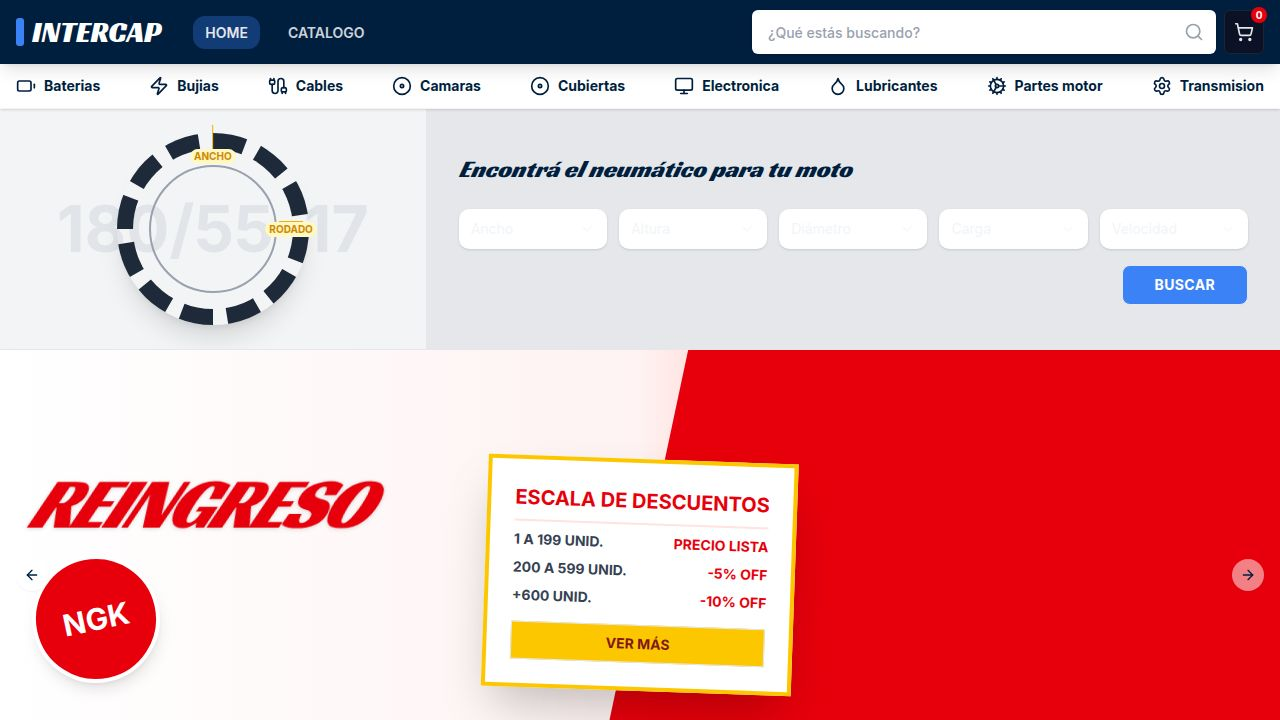
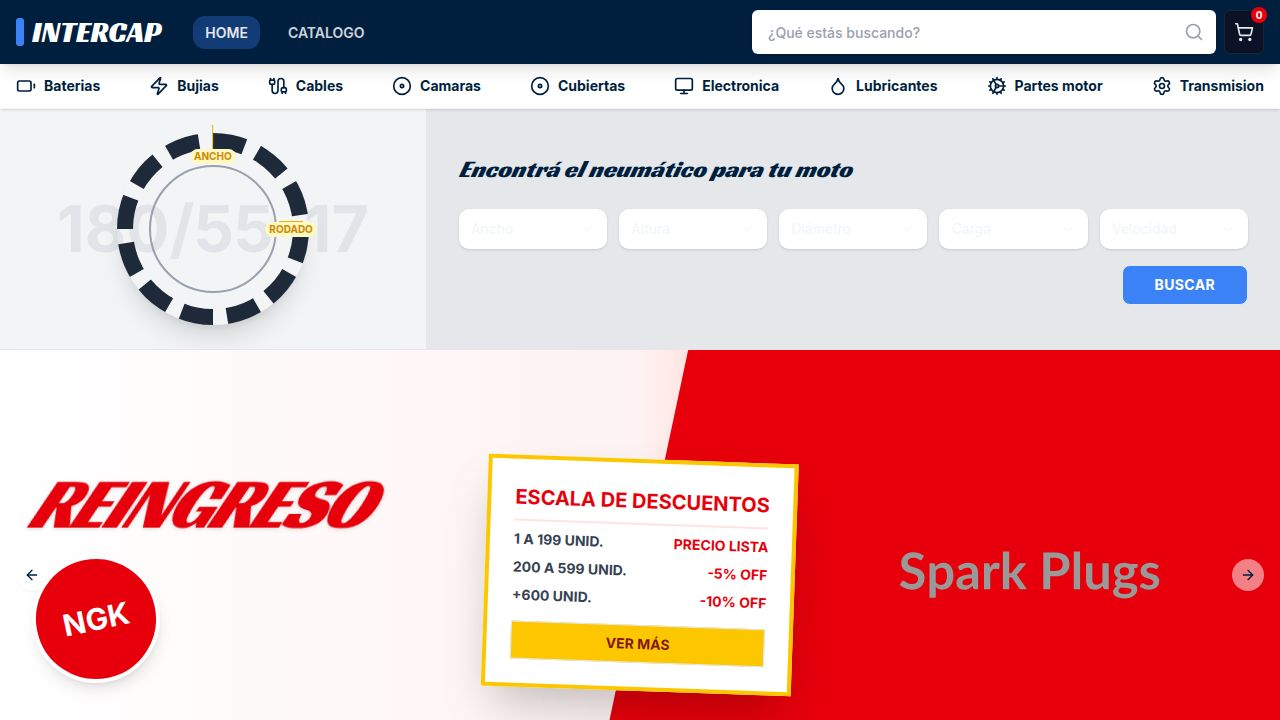
Update filter sidebar appearance and behavior for product catalog
Refactors the `FilterSidebar` component to align with new UI/UX requirements, including conditional rendering of attribute filters, default expansion of category filters, and updated styling for a cleaner, more intuitive user experience.

Replit-Commit-Author: Agent
Replit-Commit-Session-Id: 692893c5-8877-4f05-85e1-bfd36a8c08d7
Replit-Commit-Checkpoint-Type: full_checkpoint
Replit-Commit-Event-Id: 6ee007c5-415e-4534-bc1e-a87118cdcfa3
Replit-Commit-Screenshot-Url: https://storage.googleapis.com/screenshot-production-us-central1/5ba6c124-accc-4db5-b22c-435805b54b3a/692893c5-8877-4f05-85e1-bfd36a8c08d7/xhE15I8
Replit-Helium-Checkpoint-Created: true

Changed region(s): [[0.6875, 0.7639, 0.9062, 0.825]]

diff --git a/client/src/components/product/FilterSidebar.tsx b/client/src/components/product/FilterSidebar.tsx
@@ -38,6 +38,11 @@ export function FilterSidebar({ selectedFilters, onFilterChange }: FilterSidebar
   };
 
   const selectedCategories = selectedFilters.categoria || [];
+  const selectedMarcas = selectedFilters.marca || [];
+  const selectedSubtipos = selectedFilters.subtipo || [];
+
+  // Show attributes only if brand, type or subtype is selected
+  const showAttributes = selectedMarcas.length > 0 || selectedCategories.length > 0 || selectedSubtipos.length > 0;
   
   const availableSubtipos = useMemo(() => {
     return getSubtiposForCategories(selectedCategories);
@@ -71,7 +76,6 @@ export function FilterSidebar({ selectedFilters, onFilterChange }: FilterSidebar
     );
   }, [marcaSearch, availableMarcas]);
 
-  // Aggregate all attributes across categories
   const allAttributes = useMemo(() => {
     const attrs: Record<string, { label: string, values: any[] }> = {};
     Object.values(ATTRIBUTE_SCHEMA_BY_CATEGORY).forEach(schema => {
@@ -101,11 +105,11 @@ export function FilterSidebar({ selectedFilters, onFilterChange }: FilterSidebar
   };
 
   return (
-    <div className="flex flex-col gap-0 select-none">
-      <div className="flex justify-between items-center bg-[#0b1226] p-3 rounded-t-md border-b border-white/10">
-        <h2 className="font-black text-white text-sm uppercase italic tracking-tighter">Filtros</h2>
+    <div className="flex flex-col gap-0 select-none bg-[#001536] min-h-full">
+      <div className="flex justify-between items-center bg-[#001536] p-4 border-b border-white/5">
+        <h2 className="font-black text-white text-base uppercase tracking-tight">Filtros</h2>
         <button 
-          className="text-[10px] font-bold text-[#0066ff] uppercase hover:underline"
+          className="text-[10px] font-bold text-[#006ad8] uppercase hover:underline"
           onClick={() => onFilterChange({})}
         >
           Limpiar
@@ -113,13 +117,13 @@ export function FilterSidebar({ selectedFilters, onFilterChange }: FilterSidebar
       </div>
       
       <div className="space-y-0">
-        {/* ESTADO Section */}
-        <Accordion type="single" collapsible defaultValue="estado" className="w-full">
+        {/* ESTADO Section - Default Open */}
+        <Accordion type="multiple" defaultValue={["estado", "marcas", "tipos", "subtipos"]} className="w-full">
           <AccordionItem value="estado" className="border-none">
-            <AccordionTrigger className="bg-[#0b1226] hover:no-underline px-4 py-3 text-[11px] font-black text-white uppercase italic border-b border-white/10 [&[data-state=open]>svg]:rotate-180">
+            <AccordionTrigger className="bg-[#001536] hover:no-underline px-4 py-4 text-[11px] font-black text-[#006ad8] uppercase border-b border-white/5 [&[data-state=open]>svg]:rotate-180">
               ESTADO
             </AccordionTrigger>
-            <AccordionContent className="bg-[#1a233a] p-4 pb-6 space-y-3">
+            <AccordionContent className="bg-[#001f3f] p-4 pb-6 space-y-4">
               {[
                 { id: 'isHot', label: 'Ofertas' },
                 { id: 'isNew', label: 'Novedades' },
@@ -127,51 +131,46 @@ export function FilterSidebar({ selectedFilters, onFilterChange }: FilterSidebar
                 { id: 'var', label: 'Variación de precio' }
               ].map((item) => (
                 <div key={item.id} className="flex items-center space-x-3 group cursor-pointer">
-                  <div className="relative flex items-center">
-                    <Checkbox 
-                      id={`state-${item.id}`} 
-                      checked={isChecked('state', item.id)}
-                      onCheckedChange={(checked) => handleCheckboxChange('state', item.id, checked as boolean)}
-                      className="w-4 h-4 border-white/30 data-[state=checked]:bg-[#00d1b2] data-[state=checked]:border-[#00d1b2] rounded-full"
-                    />
-                  </div>
-                  <Label htmlFor={`state-${item.id}`} className="text-xs font-bold text-gray-400 group-hover:text-white cursor-pointer uppercase tracking-wide">
+                  <Checkbox 
+                    id={`state-${item.id}`} 
+                    checked={isChecked('state', item.id)}
+                    onCheckedChange={(checked) => handleCheckboxChange('state', item.id, checked as boolean)}
+                    className="w-5 h-5 border-white/20 data-[state=checked]:bg-[#006ad8] data-[state=checked]:border-[#006ad8] rounded-full"
+                  />
+                  <Label htmlFor={`state-${item.id}`} className="text-xs font-bold text-gray-300 group-hover:text-white cursor-pointer uppercase tracking-wider">
                     {item.label}
                   </Label>
                 </div>
               ))}
             </AccordionContent>
           </AccordionItem>
-        </Accordion>
 
-        {/* MARCAS Section */}
-        <Accordion type="single" collapsible className="w-full">
           <AccordionItem value="marcas" className="border-none">
-            <AccordionTrigger className="bg-[#0b1226] hover:no-underline px-4 py-3 text-[11px] font-black text-white uppercase italic border-b border-white/10 [&[data-state=open]>svg]:rotate-180">
+            <AccordionTrigger className="bg-[#001536] hover:no-underline px-4 py-4 text-[11px] font-black text-[#006ad8] uppercase border-b border-white/5 [&[data-state=open]>svg]:rotate-180">
               <div className="flex items-center gap-2">
                 MARCAS
-                {selectedFilters.marca?.length > 0 && <span className="bg-[#0066ff] text-white rounded-full w-4 h-4 flex items-center justify-center text-[9px] font-bold">{selectedFilters.marca.length}</span>}
+                {selectedMarcas.length > 0 && <span className="bg-[#006ad8] text-white rounded-full w-4 h-4 flex items-center justify-center text-[9px] font-bold">{selectedMarcas.length}</span>}
               </div>
             </AccordionTrigger>
-            <AccordionContent className="bg-[#1a233a] p-0">
-              <div className="p-3">
-                <div className="relative mb-2">
-                  <Search className="absolute left-2 top-1/2 -translate-y-1/2 w-3 h-3 text-gray-500" />
+            <AccordionContent className="bg-[#001f3f] p-0">
+              <div className="p-4">
+                <div className="relative mb-3">
+                  <Search className="absolute left-3 top-1/2 -translate-y-1/2 w-3.5 h-3.5 text-gray-500" />
                   <Input
                     placeholder="Buscar Marcas"
                     value={marcaSearch}
                     onChange={(e) => setMarcaSearch(e.target.value)}
-                    className="pl-7 h-8 bg-[#0b1226] border-white/10 text-white text-xs placeholder:text-gray-600"
+                    className="pl-9 h-9 bg-[#001536] border-white/10 text-white text-xs placeholder:text-gray-600 rounded-sm"
                   />
                 </div>
-                <div className="space-y-2 max-h-[250px] overflow-y-auto custom-scrollbar pr-2">
+                <div className="space-y-3 max-h-[300px] overflow-y-auto custom-scrollbar pr-2">
                   {filteredMarcas.map((marca) => (
                     <div key={marca.id} className="flex items-center space-x-3 group">
                       <Checkbox 
                         id={`marca-${marca.id}`} 
                         checked={isChecked('marca', marca.id)}
                         onCheckedChange={(checked) => handleCheckboxChange('marca', marca.id, checked as boolean)}
-                        className="w-4 h-4 border-white/30 data-[state=checked]:bg-[#00d1b2] rounded-full"
+                        className="w-5 h-5 border-white/20 data-[state=checked]:bg-[#006ad8] rounded-full"
                       />
                       <Label htmlFor={`marca-${marca.id}`} className="text-xs font-bold text-gray-400 group-hover:text-white cursor-pointer uppercase">
                         {marca.nombre}
@@ -182,36 +181,33 @@ export function FilterSidebar({ selectedFilters, onFilterChange }: FilterSidebar
               </div>
             </AccordionContent>
           </AccordionItem>
-        </Accordion>
 
-        {/* TIPOS DE PRODUCTO (CATEGORÍA) Section */}
-        <Accordion type="single" collapsible className="w-full">
           <AccordionItem value="tipos" className="border-none">
-            <AccordionTrigger className="bg-[#0b1226] hover:no-underline px-4 py-3 text-[11px] font-black text-white uppercase italic border-b border-white/10 [&[data-state=open]>svg]:rotate-180">
+            <AccordionTrigger className="bg-[#001536] hover:no-underline px-4 py-4 text-[11px] font-black text-[#006ad8] uppercase border-b border-white/5 [&[data-state=open]>svg]:rotate-180">
               <div className="flex items-center gap-2">
                 TIPOS DE PRODUCTO
-                {selectedCategories.length > 0 && <span className="bg-[#0066ff] text-white rounded-full w-4 h-4 flex items-center justify-center text-[9px] font-bold">{selectedCategories.length}</span>}
+                {selectedCategories.length > 0 && <span className="bg-[#006ad8] text-white rounded-full w-4 h-4 flex items-center justify-center text-[9px] font-bold">{selectedCategories.length}</span>}
               </div>
             </AccordionTrigger>
-            <AccordionContent className="bg-[#1a233a] p-0">
-              <div className="p-3">
-                <div className="relative mb-2">
-                  <Search className="absolute left-2 top-1/2 -translate-y-1/2 w-3 h-3 text-gray-500" />
+            <AccordionContent className="bg-[#001f3f] p-0">
+              <div className="p-4">
+                <div className="relative mb-3">
+                  <Search className="absolute left-3 top-1/2 -translate-y-1/2 w-3.5 h-3.5 text-gray-500" />
                   <Input
                     placeholder="Buscar Tipo Producto"
                     value={categorySearch}
                     onChange={(e) => setCategorySearch(e.target.value)}
-                    className="pl-7 h-8 bg-[#0b1226] border-white/10 text-white text-xs placeholder:text-gray-600"
+                    className="pl-9 h-9 bg-[#001536] border-white/10 text-white text-xs placeholder:text-gray-600 rounded-sm"
                   />
                 </div>
-                <div className="space-y-2 max-h-[250px] overflow-y-auto custom-scrollbar pr-2">
+                <div className="space-y-3 max-h-[300px] overflow-y-auto custom-scrollbar pr-2">
                   {filteredCategories.map((cat) => (
                     <div key={cat.id} className="flex items-center space-x-3 group">
                       <Checkbox 
                         id={`cat-${cat.id}`} 
                         checked={isChecked('categoria', cat.id)}
                         onCheckedChange={(checked) => handleCheckboxChange('categoria', cat.id, checked as boolean)}
-                        className="w-4 h-4 border-white/30 data-[state=checked]:bg-[#00d1b2] rounded-full"
+                        className="w-5 h-5 border-white/20 data-[state=checked]:bg-[#006ad8] rounded-full"
                       />
                       <Label htmlFor={`cat-${cat.id}`} className="text-xs font-bold text-gray-400 group-hover:text-white cursor-pointer uppercase">
                         {cat.nombre}
@@ -222,36 +218,33 @@ export function FilterSidebar({ selectedFilters, onFilterChange }: FilterSidebar
               </div>
             </AccordionContent>
           </AccordionItem>
-        </Accordion>
 
-        {/* SUBTIPOS Section */}
-        <Accordion type="single" collapsible className="w-full">
           <AccordionItem value="subtipos" className="border-none">
-            <AccordionTrigger className="bg-[#0b1226] hover:no-underline px-4 py-3 text-[11px] font-black text-white uppercase italic border-b border-white/10 [&[data-state=open]>svg]:rotate-180">
+            <AccordionTrigger className="bg-[#001536] hover:no-underline px-4 py-4 text-[11px] font-black text-[#006ad8] uppercase border-b border-white/5 [&[data-state=open]>svg]:rotate-180">
               <div className="flex items-center gap-2">
                 SUBTIPOS
-                {selectedFilters.subtipo?.length > 0 && <span className="bg-[#0066ff] text-white rounded-full w-4 h-4 flex items-center justify-center text-[9px] font-bold">{selectedFilters.subtipo.length}</span>}
+                {selectedSubtipos.length > 0 && <span className="bg-[#006ad8] text-white rounded-full w-4 h-4 flex items-center justify-center text-[9px] font-bold">{selectedSubtipos.length}</span>}
               </div>
             </AccordionTrigger>
-            <AccordionContent className="bg-[#1a233a] p-0">
-              <div className="p-3">
-                <div className="relative mb-2">
-                  <Search className="absolute left-2 top-1/2 -translate-y-1/2 w-3 h-3 text-gray-500" />
+            <AccordionContent className="bg-[#001f3f] p-0">
+              <div className="p-4">
+                <div className="relative mb-3">
+                  <Search className="absolute left-3 top-1/2 -translate-y-1/2 w-3.5 h-3.5 text-gray-500" />
                   <Input
                     placeholder="Buscar Subtipo"
                     value={subtipoSearch}
                     onChange={(e) => setSubtipoSearch(e.target.value)}
-                    className="pl-7 h-8 bg-[#0b1226] border-white/10 text-white text-xs placeholder:text-gray-600"
+                    className="pl-9 h-9 bg-[#001536] border-white/10 text-white text-xs placeholder:text-gray-600 rounded-sm"
                   />
                 </div>
-                <div className="space-y-2 max-h-[250px] overflow-y-auto custom-scrollbar pr-2">
+                <div className="space-y-3 max-h-[300px] overflow-y-auto custom-scrollbar pr-2">
                   {filteredSubtipos.map((st) => (
                     <div key={st.id} className="flex items-center space-x-3 group">
                       <Checkbox 
                         id={`subtipo-${st.id}`} 
                         checked={isChecked('subtipo', st.id)}
                         onCheckedChange={(checked) => handleCheckboxChange('subtipo', st.id, checked as boolean)}
-                        className="w-4 h-4 border-white/30 data-[state=checked]:bg-[#00d1b2] rounded-full"
+                        className="w-5 h-5 border-white/20 data-[state=checked]:bg-[#006ad8] rounded-full"
                       />
                       <Label htmlFor={`subtipo-${st.id}`} className="text-xs font-bold text-gray-400 group-hover:text-white cursor-pointer uppercase">
                         {st.nombre}
@@ -262,46 +255,46 @@ export function FilterSidebar({ selectedFilters, onFilterChange }: FilterSidebar
               </div>
             </AccordionContent>
           </AccordionItem>
-        </Accordion>
 
-        {/* ATRIBUTOS Section */}
-        <Accordion type="single" collapsible className="w-full">
-          <AccordionItem value="atributos" className="border-none">
-            <AccordionTrigger className="bg-[#0b1226] hover:no-underline px-4 py-3 text-[11px] font-black text-white uppercase italic border-b border-white/10 [&[data-state=open]>svg]:rotate-180">
-              ATRIBUTOS
-            </AccordionTrigger>
-            <AccordionContent className="bg-[#1a233a] p-0">
-              <div className="p-0">
-                {Object.entries(allAttributes).map(([key, attr]) => (
-                  <Accordion key={key} type="single" collapsible className="w-full border-b border-white/5">
-                    <AccordionItem value={key} className="border-none">
-                      <AccordionTrigger className="px-6 py-2 text-[10px] font-bold text-gray-300 uppercase hover:no-underline">
-                        <div className="flex items-center gap-2">
-                          {attr.label}
-                          {selectedFilters[`attr_${key}`]?.length > 0 && <span className="bg-[#f97316] text-white rounded-full w-4 h-4 flex items-center justify-center text-[9px] font-bold">{selectedFilters[`attr_${key}`].length}</span>}
-                        </div>
-                      </AccordionTrigger>
-                      <AccordionContent className="px-8 pb-4 space-y-2 max-h-[200px] overflow-y-auto custom-scrollbar">
-                        {attr.values.map((val: any) => (
-                          <div key={String(val)} className="flex items-center space-x-3 group">
-                            <Checkbox 
-                              id={`attr-${key}-${val}`} 
-                              checked={isAttributeSelected(key, String(val))}
-                              onCheckedChange={() => handleAttributeChange(key, String(val))}
-                              className="w-3.5 h-3.5 border-white/20 data-[state=checked]:bg-[#f97316] rounded-full"
-                            />
-                            <Label htmlFor={`attr-${key}-${val}`} className="text-[10px] font-bold text-gray-500 group-hover:text-white cursor-pointer uppercase">
-                              {val}
-                            </Label>
+          {/* Conditional Attributes Section */}
+          {showAttributes && (
+            <AccordionItem value="atributos" className="border-none">
+              <AccordionTrigger className="bg-[#001536] hover:no-underline px-4 py-4 text-[11px] font-black text-[#006ad8] uppercase border-b border-white/5 [&[data-state=open]>svg]:rotate-180">
+                ATRIBUTOS
+              </AccordionTrigger>
+              <AccordionContent className="bg-[#001f3f] p-0">
+                <div className="p-0">
+                  {Object.entries(allAttributes).map(([key, attr]) => (
+                    <Accordion key={key} type="single" collapsible className="w-full border-b border-white/5">
+                      <AccordionItem value={key} className="border-none">
+                        <AccordionTrigger className="px-6 py-3 text-[10px] font-bold text-gray-300 uppercase hover:no-underline">
+                          <div className="flex items-center gap-2">
+                            {attr.label}
+                            {selectedFilters[`attr_${key}`]?.length > 0 && <span className="bg-[#006ad8] text-white rounded-full w-4 h-4 flex items-center justify-center text-[9px] font-bold">{selectedFilters[`attr_${key}`].length}</span>}
                           </div>
-                        ))}
-                      </AccordionContent>
-                    </AccordionItem>
-                  </Accordion>
-                ))}
-              </div>
-            </AccordionContent>
-          </AccordionItem>
+                        </AccordionTrigger>
+                        <AccordionContent className="px-8 pb-4 space-y-3 max-h-[200px] overflow-y-auto custom-scrollbar">
+                          {attr.values.map((val: any) => (
+                            <div key={String(val)} className="flex items-center space-x-3 group">
+                              <Checkbox 
+                                id={`attr-${key}-${val}`} 
+                                checked={isAttributeSelected(key, String(val))}
+                                onCheckedChange={() => handleAttributeChange(key, String(val))}
+                                className="w-4 h-4 border-white/20 data-[state=checked]:bg-[#006ad8] rounded-full"
+                              />
+                              <Label htmlFor={`attr-${key}-${val}`} className="text-[10px] font-bold text-gray-500 group-hover:text-white cursor-pointer uppercase">
+                                {val}
+                              </Label>
+                            </div>
+                          ))}
+                        </AccordionContent>
+                      </AccordionItem>
+                    </Accordion>
+                  ))}
+                </div>
+              </AccordionContent>
+            </AccordionItem>
+          )}
         </Accordion>
       </div>
     </div>

diff --git a/client/src/pages/catalog.tsx b/client/src/pages/catalog.tsx
@@ -179,13 +179,13 @@ export default function Catalog() {
         </div>
       </div>
 
-      <div className="flex flex-1 w-full relative">
-        <aside className="w-[260px] shrink-0 sticky top-16 h-[calc(100vh-64px)] overflow-auto hidden lg:block custom-scrollbar">
+      <div className="flex flex-1 w-full relative min-h-[calc(100vh-64px)]">
+        <aside className="w-[260px] shrink-0 sticky top-16 h-[calc(100vh-64px)] overflow-auto hidden lg:block custom-scrollbar bg-[#001536]">
           <FilterSidebar selectedFilters={filters} onFilterChange={setFilters} />
         </aside>
 
         <main className="flex-1 min-w-0 bg-[#f8fafc]">
-          <div className="bg-[#0b1226] p-2 sticky top-16 z-20">
+          <div className="bg-[#0b1226] p-2 sticky top-16 z-20 mb-[15px]">
             <div className="container mx-auto px-4">
               <div className="flex flex-wrap gap-4 items-center justify-between">
                 <div className="flex items-center gap-2">
